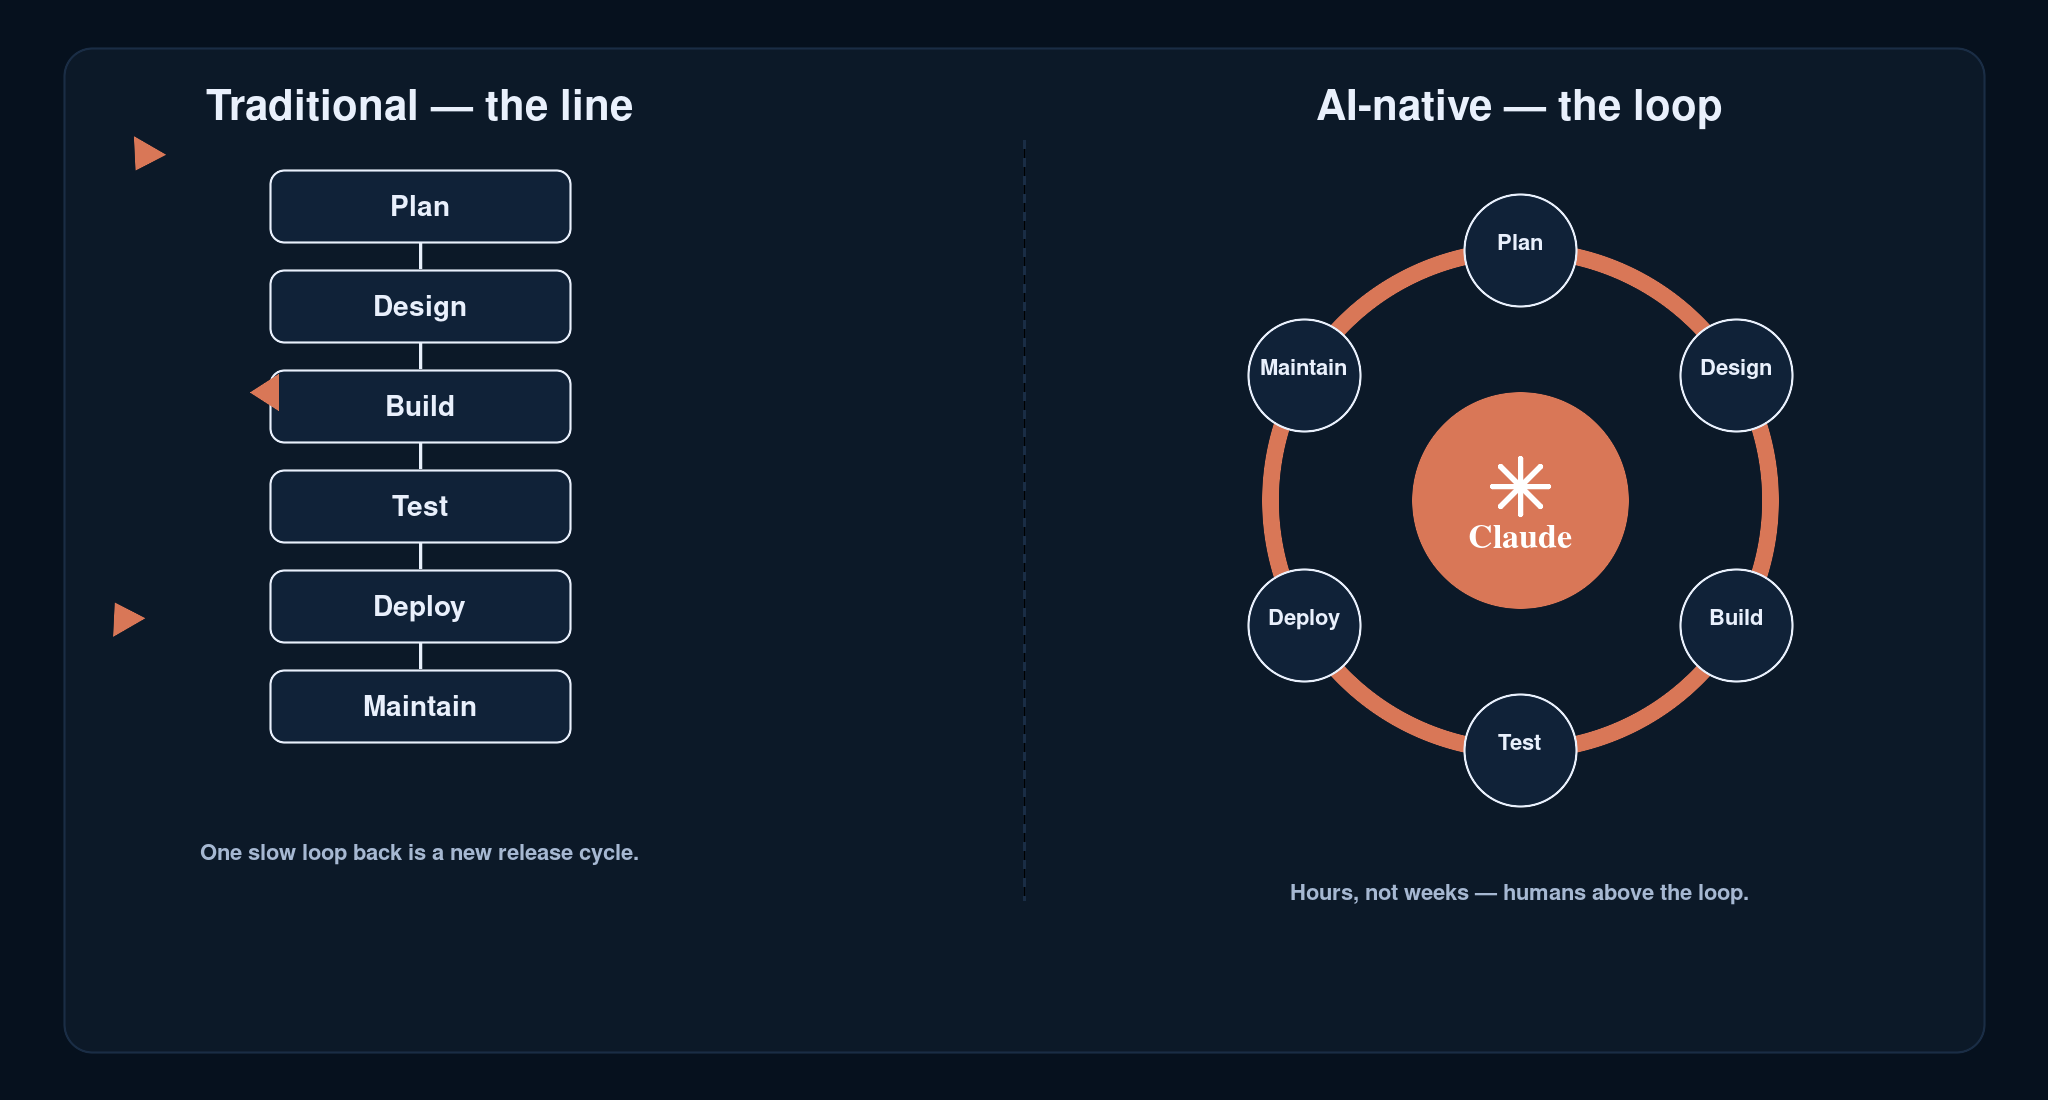
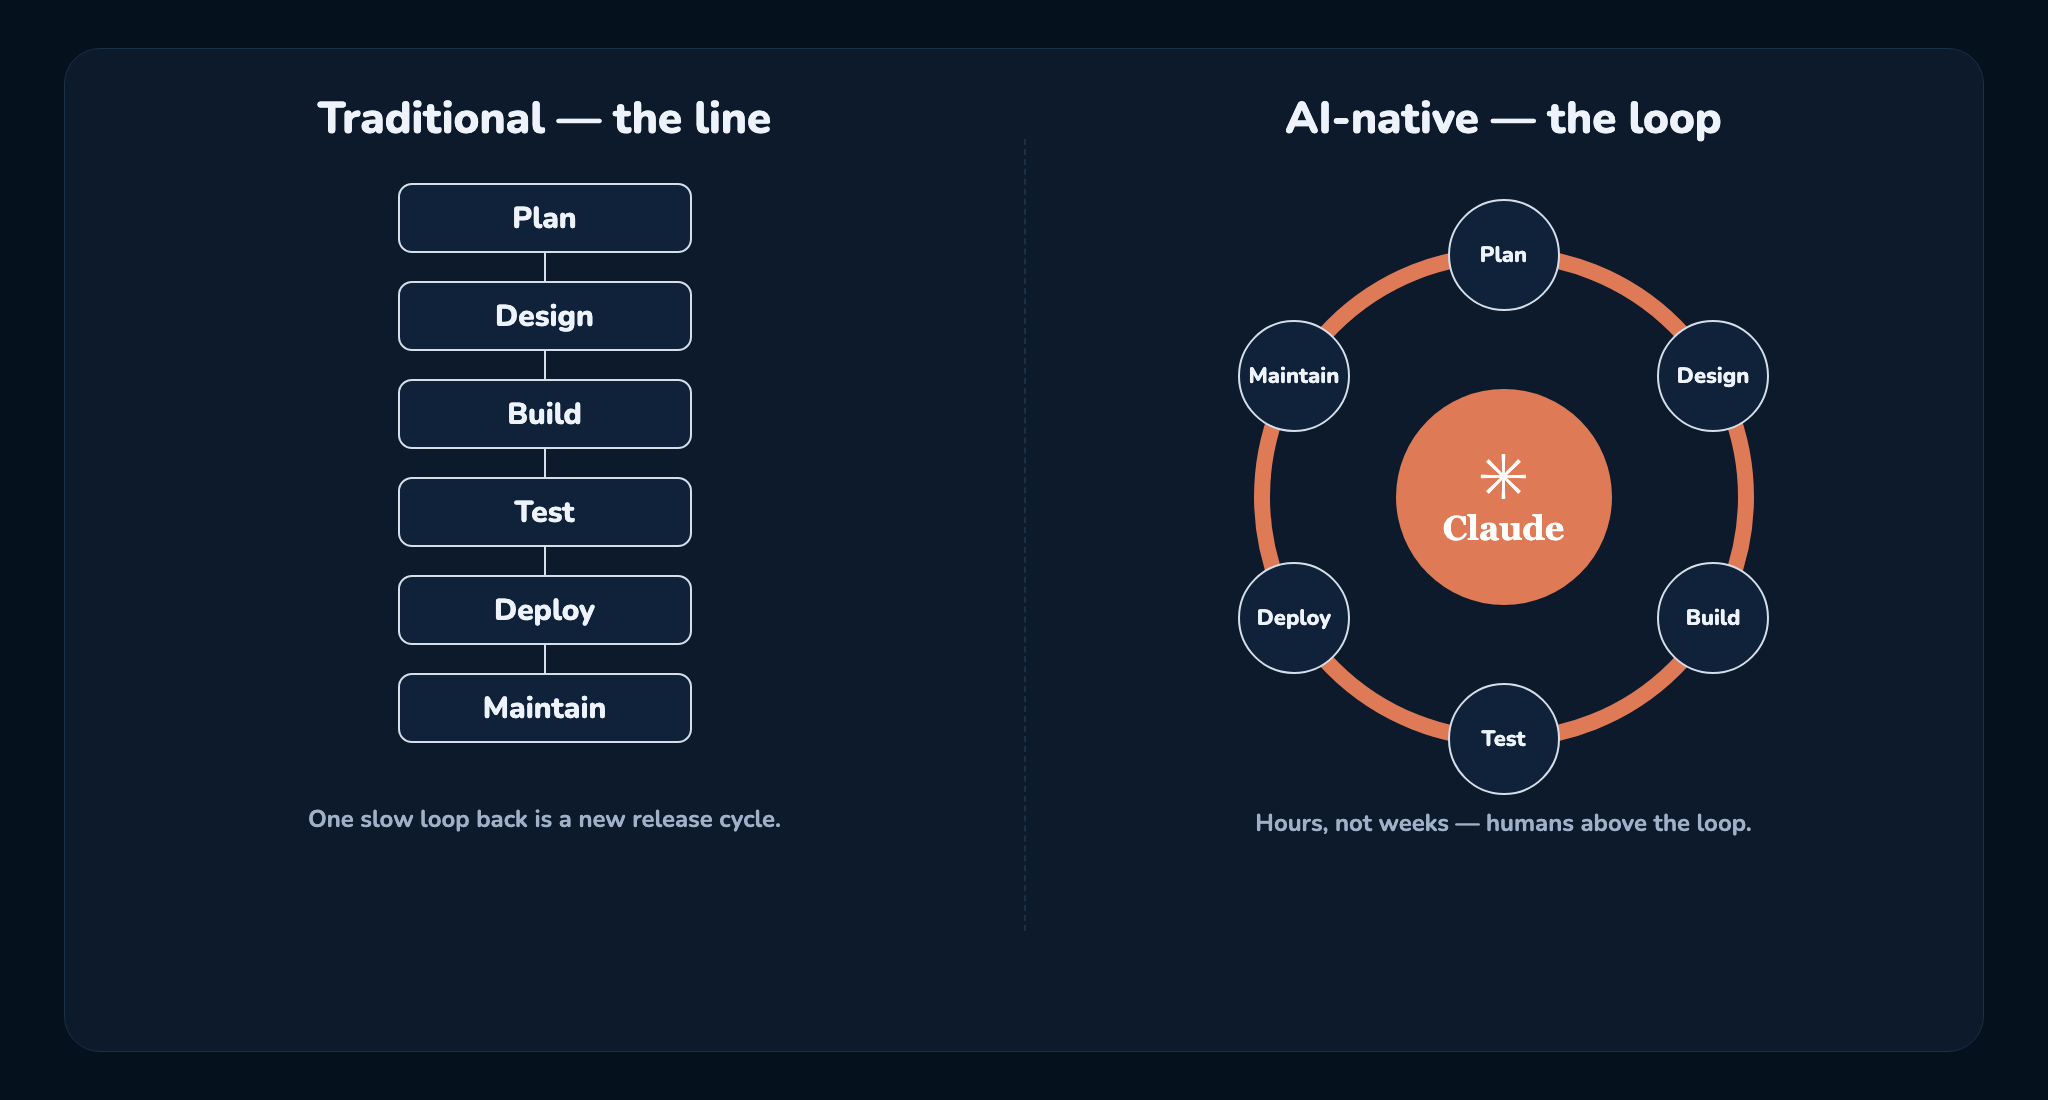
feat(workshop-5): dictionary-style definitions, bottleneck diagram, clean line-vs-loop
- Definition faces read as dictionary entries: label on top, headword
  (kicker) + 'noun', rule, sense 1 = the definition.
- Slide 3 'Code is no longer the bottleneck' shows the before/after-agents
  diagram (Academy-dark remake after the AI-native SDLC playbook).
- line-vs-loop-dark.png re-rendered without the stray orange triangles.

diff --git a/apps/web/test/workshop-5-deck.test.tsx b/apps/web/test/workshop-5-deck.test.tsx
@@ -14,8 +14,8 @@ describe('AET-77 workshop 5 ultra-minimal AI-native SDLC deck', () => {
     s.visual && typeof s.visual === 'object' && !Array.isArray(s.visual)
       ? (s.visual as Record<string, unknown>)
       : {};
-  const definitions = workshop5SourceSlides.filter((s) => kicker(s).startsWith('Definition · '));
-  const terms = definitions.map((s) => kicker(s).replace('Definition · ', ''));
+  const definitions = workshop5SourceSlides.filter((s) => visualOf(s).opener === 'definition');
+  const terms = definitions.map((s) => kicker(s));
 
   const REQUIRED_TERMS = [
     'AI-native SDLC',
@@ -49,7 +49,8 @@ describe('AET-77 workshop 5 ultra-minimal AI-native SDLC deck', () => {
 
   it('the AI-native SDLC definition follows the loop and says loop + AI at each point', () => {
     const def = workshop5SourceSlides[1]!;
-    expect(kicker(def)).toBe('Definition · AI-native SDLC');
+    expect(kicker(def)).toBe('AI-native SDLC');
+    expect(visualOf(def).opener).toBe('definition');
     expect(String(def.title)).toMatch(/loop/i);
     expect(String(def.title)).toMatch(/AI embedded at each point/i);
   });
@@ -78,10 +79,10 @@ describe('AET-77 workshop 5 ultra-minimal AI-native SDLC deck', () => {
     expect(new Set(terms).size).toBe(terms.length);
   });
 
-  it('definition faces show the definition itself, not just the term', () => {
+  it('definition faces are dictionary entries: headword kicker, the definition as the face', () => {
     for (const def of definitions) {
-      const term = kicker(def).replace('Definition · ', '');
-      expect(visualOf(def).opener, term).toBe('definition');
+      const term = kicker(def);
+      expect(term.length, term).toBeLessThanOrEqual(20);
       expect(String(def.title), term).not.toBe(term);
       expect(String(def.title).split(/\s+/).length, term).toBeGreaterThanOrEqual(7);
       expect(String(def.title).length, term).toBeLessThanOrEqual(130);
@@ -95,14 +96,14 @@ describe('AET-77 workshop 5 ultra-minimal AI-native SDLC deck', () => {
       const lookIdx = workshop5SourceSlides.findIndex((s) => kicker(s) === `Look · SOLO ${n}`);
       expect(demoIdx, `demo SOLO ${n}`).toBeGreaterThanOrEqual(0);
       expect(kicker(workshop5SourceSlides[demoIdx + 1]), `your turn SOLO ${n}`).toBe(`SOLO ${n} / 7 · Your turn`);
-      expect(kicker(workshop5SourceSlides[demoIdx - 1]), `definition SOLO ${n}`).toMatch(/^Definition · /);
+      expect(visualOf(workshop5SourceSlides[demoIdx - 1]!).opener, `definition SOLO ${n}`).toBe('definition');
       expect(lookIdx, `look SOLO ${n}`).toBe(demoIdx - 2);
     }
   });
 
   it('every Look face is a showcase diagram that exists in public/', () => {
     const looks = workshop5SourceSlides.filter((s) => visualOf(s).opener === 'showcase');
-    expect(looks.length).toBeGreaterThanOrEqual(9);
+    expect(looks.length).toBeGreaterThanOrEqual(10);
     for (const face of looks) {
       const image = String(visualOf(face).image ?? '');
       expect(image, String(face.title)).toMatch(/^workshop-5\/.+-dark\.png$/);

diff --git a/packages/deck/src/source.css b/packages/deck/src/source.css
@@ -1126,6 +1126,12 @@
 .academy-deck.mode-presenter.keynote #stage,.academy-deck.mode-presenter #stage{justify-content:flex-start;padding-top:1.2rem}
 
 .academy-deck.mode-presenter .presenter-tools{display:block;margin-top:1.2rem;max-width:960px;width:100%;margin-left:auto;margin-right:auto}
-/* W5 definition face: the definition sentence is the headline, so it runs smaller than a one-liner */
-.academy-deck.keynote[data-opener=definition] h1{font-size:clamp(1.6rem,3.3vw,3.4rem);line-height:1.12;letter-spacing:-.02em;font-weight:800;max-width:min(54rem,94vw)}
-.academy-deck.keynote[data-opener=definition] .kicker-text{color:var(--cyan);opacity:1}
+/* W5 definition face, dictionary style: label on top → headword (kicker) + part of speech → rule → sense 1 (h1) */
+.academy-deck.keynote[data-opener=definition] .heading{align-items:flex-start;text-align:left;max-width:min(58rem,92vw)}
+.academy-deck.keynote[data-opener=definition] .heading-top{justify-content:space-between;align-items:flex-start;width:100%}
+.academy-deck.keynote[data-opener=definition] .eyebrow{flex-direction:column;align-items:flex-start;gap:clamp(1rem,3vh,1.8rem);margin:0 0 clamp(.8rem,2vh,1.2rem)}
+.academy-deck.keynote[data-opener=definition] .kicker-text{font:700 clamp(2.4rem,4.6vw,4.4rem)/1.05 Georgia,'Times New Roman',serif;letter-spacing:0;text-transform:none;color:var(--text);opacity:1}
+.academy-deck.keynote[data-opener=definition] .kicker-text::after{content:"noun";font:italic 400 .42em Georgia,serif;color:var(--muted);margin-left:.7em;vertical-align:.25em}
+.academy-deck.keynote[data-opener=definition] h1{font:400 clamp(1.35rem,2.5vw,2.3rem)/1.4 Georgia,'Times New Roman',serif;letter-spacing:0;text-align:left;max-width:none;margin:0;padding-top:clamp(.8rem,2vh,1.2rem);border-top:1px solid color-mix(in srgb,var(--muted) 35%,transparent);text-wrap:pretty}
+.academy-deck.keynote[data-opener=definition] h1::before{content:"1";font-weight:700;color:var(--cyan);margin-right:.6em}
+.academy-deck.keynote[data-opener=definition] .slide-main,.academy-deck.keynote[data-opener=definition] .pop-row{align-items:flex-start;justify-content:flex-start;max-width:min(58rem,92vw)}

diff --git a/apps/web/src/deck/workshop5-slides.ts b/apps/web/src/deck/workshop5-slides.ts
@@ -17,11 +17,11 @@ const look = (solo: number, title: string, image: string, notes: string): Record
   notes,
 });
 
-/** Definition face: the definition sentence is the headline; the term is the kicker (+ optional path chip). */
+/** Definition face, dictionary style: the term is the headword (kicker), the definition is the headline (+ optional path chip). */
 const define = (term: string, sentence: string, notes: string, path?: string): Record<string, unknown> => ({
   lessonId: LESSON,
   title: sentence,
-  kicker: `Definition · ${term}`,
+  kicker: term,
   type: "concept",
   visual: path ? { keynote: true, opener: "definition", popOut: 0 } : { keynote: true, opener: "definition" },
   ...(path ? { cards: [{ title: "Path", body: path }] } : {}),
@@ -55,8 +55,8 @@ define("AI-native SDLC",
   title: "Code is no longer the bottleneck.",
   kicker: "Explain · why we change",
   type: "concept",
-  visual: { keynote: true },
-  notes: "Explain. Agents collapse Build. Plan, Test, Deploy and Maintain stay human-speed; that is where the time goes now. Every stage ends with a committed file the next stage reads."
+  visual: { keynote: true, opener: "showcase", image: "workshop-5/bottleneck-dark.png", imageLink: "Before agents · after agents" },
+  notes: "Explain. Diagram after Anthropic's AI-native SDLC playbook: before agents every stage runs at human speed; after agents Build shrinks to a sliver and the cycle time is reclaimed. Agents collapse Build. Plan, Test, Deploy and Maintain stay human-speed; that is where the time goes now. Every stage ends with a committed file the next stage reads."
 },
 
 { // Artifact chain
